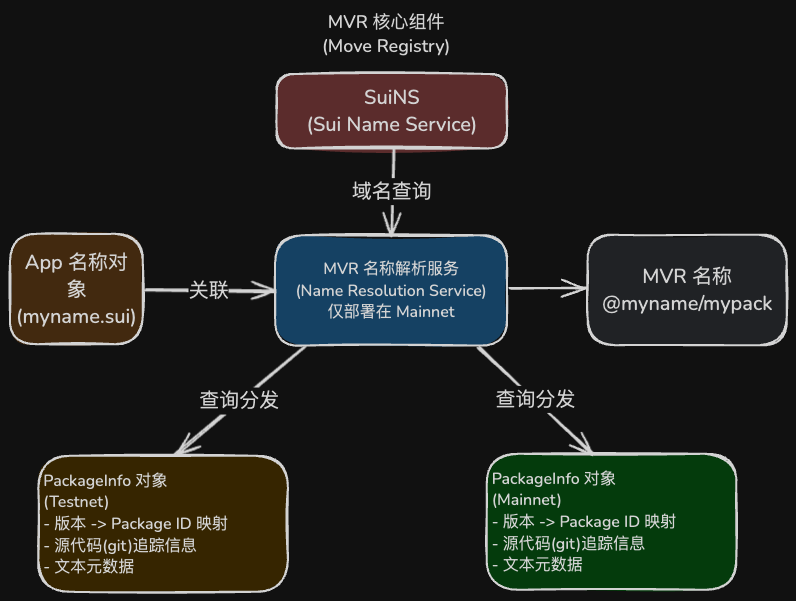
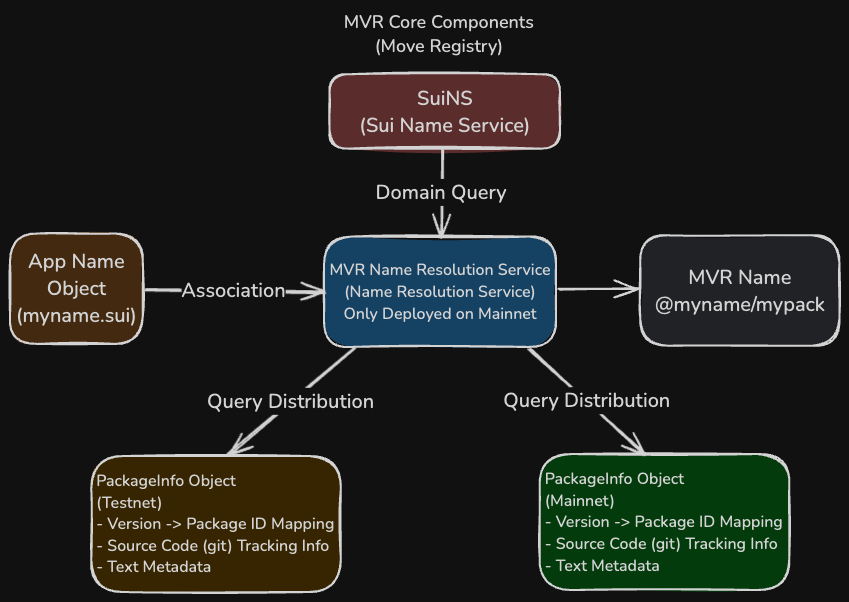
Update README.md to include detailed documentation for MVR features and design principles; replace mvr.png with an updated version

diff --git a/booklit/en/src/mvr/README.md b/booklit/en/src/mvr/README.md
@@ -1,1 +1,129 @@
 # MVR: Move Registry
+
+In the current blockchain ecosystem, smart contract addresses are often random character strings that are difficult to memorize, causing a lot of trouble for developers and users.
+
+MVR (Move Registry, pronounced as "mover") aims to solve this problem by providing a unified naming service for smart contract packages on the Sui blockchain.
+
+## What is MVR?
+
+MVR is a tool that provides a unified naming service for Move language packages in the Sui ecosystem. Through MVR, developers can reference and build smart contracts using human-readable names without worrying about package addresses on different networks.
+
+## Main Features of MVR
+
+- **Name References**: Reference packages and types by name in Programmable Transaction Blocks (PTBs)
+- **Dependency Management**: Reference other packages by name as dependencies when developing Move contracts
+- **Version Management**: Reference specific versions of packages, or use the latest version by default
+
+## Design Principles of MVR
+
+MVR consists of two independent core components:
+
+1. **PackageInfo Registration System**: Deployed separately on each network, responsible for storing package metadata. Its core is the `PackageInfo` object.
+2. **MVR Name Resolution Service**: Deployed on the mainnet as a unified source of truth, handling name resolution requests and linking MVR names to `PackageInfo` objects on various networks.
+
+![mvr](./mvr.png)
+
+These two components are explained in more detail below.
+
+### PackageInfo Objects and Registration System
+
+The `PackageInfo` object is the basic data unit of MVR, deployed on **each network where packages need to be published** (mainnet, testnet, devnet, etc.). Developers need to create a corresponding `PackageInfo` object for their Move package on **every network** where it is deployed.
+
+This metadata object mainly contains the following information and functions:
+
+- **Version to Address Mapping**: Stores the mapping between the **version number** of the package and its **specific package address (Package ID)** on that particular network. This is the foundation for implementing version control and name resolution.
+- **Source Code Tracking**: Records the location of the package source code for different versions (e.g., Git repository address and specific commit version/hash), facilitating code tracing and auditing by developers and users.
+- **Text Metadata**: Provides human-readable metadata for the package (such as title, description, tags, etc.), intended for future MVR search engines to facilitate discovery and understanding of package functionality (this search feature is not implemented in the current version).
+
+The `PackageInfo` object can be considered as a "local record book" maintained on **each network** for the same logical package (e.g., "my-awesome-package"), recording detailed information about the specific implementation addresses (Package ID) and related metadata for different versions of the package on that network.
+
+### MVR Name Resolution Service (Mainnet)
+
+To associate human-readable MVR names (such as `@myname/mypackage`) with specific `PackageInfo` objects on different networks, MVR has designed a name resolution service **deployed on the mainnet**. This service is **unified and authoritative**.
+
+Here's how it works:
+
+- **Based on SuiNS**: The service leverages SuiNS (Sui Name Service). The domain part of an MVR name (such as `@myname` or `myname.sui`) is first resolved through SuiNS to find its associated owner address or object on the mainnet.
+- **Central Index**: The data associated with the SuiNS name (typically implemented through dynamic fields) stores a crucial **mapping**: it maps the **package name** (`mypackage`) to the **Object ID** of the corresponding **`PackageInfo` object** for that logical package on **various networks** (mainnet, testnet, etc.).
+- **Query Routing**: When a tool (such as MVR CLI or SDK) needs to resolve the address of `@myname/mypackage` on `testnet`, it first queries the resolution service on the mainnet. The service returns the ID of the `PackageInfo` object for `mypackage` on `testnet`. Then, the tool uses this ID to query the `PackageInfo` object on `testnet`, ultimately obtaining the specific package address (Package ID).
+
+Therefore, the MVR name resolution service plays the role of a **central directory or index**. It doesn't directly store package addresses but **routes** unified MVR names to the correct `PackageInfo` data records on various networks.
+
+### MVR Names
+
+MVR names consist of a SuiNS name and a package name, formatted as `<suins_name>/<pkg_name>`.
+
+For example, if your SuiNS name is `myname.sui` and your package name is `mypackage`, the MVR name can be `@myname/mypackage` or `myname.sui/mypackage`.
+
+The MVR standard also supports an optional `/<version>` format to specify which on-chain version to use. For example, `@myname/mypackage/2` indicates using version 2.
+
+## MVR Toolchain
+
+### 1. MVR CLI
+
+The MVR command line tool allows developers to:
+
+- Add dependencies for Move projects
+- Build Move projects using MVR dependencies
+
+MVR CLI can be installed via Cargo, pre-compiled binaries, or building from source code.
+
+```bash
+cargo install --locked --git https://github.com/mystenlabs/mvr --branch release mvr
+```
+
+Simple example of adding a dependency:
+
+```bash
+mvr add <package_name> --network <mainnet|testnet>
+```
+
+### 2. TypeScript SDK Plugin
+
+MVR provides a plugin for the Sui TypeScript SDK, enabling the use of MVR names when building PTBs, offering a seamless development experience.
+
+Before and after comparison:
+
+**Before using MVR:**
+
+```typescript
+// Need to use complex address references
+transaction.moveCall({
+    target: `0xe177697e191327901637f8d2c5ffbbde8b1aaac27ec1024c4b62d1ebd1cd7430::accessories::equip`,
+    arguments: [...],
+    typeArguments: [
+        `0x80d7de9c4a56194087e0ba0bf59492aa8e6a5ee881606226930827085ddf2332::suifren::SuiFren`
+    ]
+});
+```
+
+**After using MVR:**
+
+```typescript
+// Reference using human-readable names
+transaction.moveCall({
+    target: `@suifrens/accessories::accessories::equip`,
+    arguments: [...],
+    typeArguments: [
+        `@suifrens/core::suifren::SuiFren`
+    ]
+})
+```
+
+## How to Start Using MVR
+
+1. **Create PackageInfo Objects**: Create metadata objects for your packages
+2. **Set Application Metadata**: Add descriptions, icons, documentation, and other information
+3. **Associate Packages with Applications**: Link your packages with MVR names
+4. **Use the Toolchain**: Start enjoying the convenience brought by MVR through CLI and SDK plugins
+
+You can visit the [Move Registry](https://www.moveregistry.com/apps) frontend page online to directly use and manage MVR services without needing to use command line operations.
+
+## Summary
+
+MVR simplifies the development and use of Move smart contracts on the Sui blockchain by providing a unified naming service. It allows developers to reference contracts using human-readable names, manage dependencies and versions, thereby improving development efficiency and code readability.
+
+## References
+
+- [Move Registry Official Website](https://www.moveregistry.com)
+- [Move Registry Official Documentation](https://docs.suins.io/move-registry)
